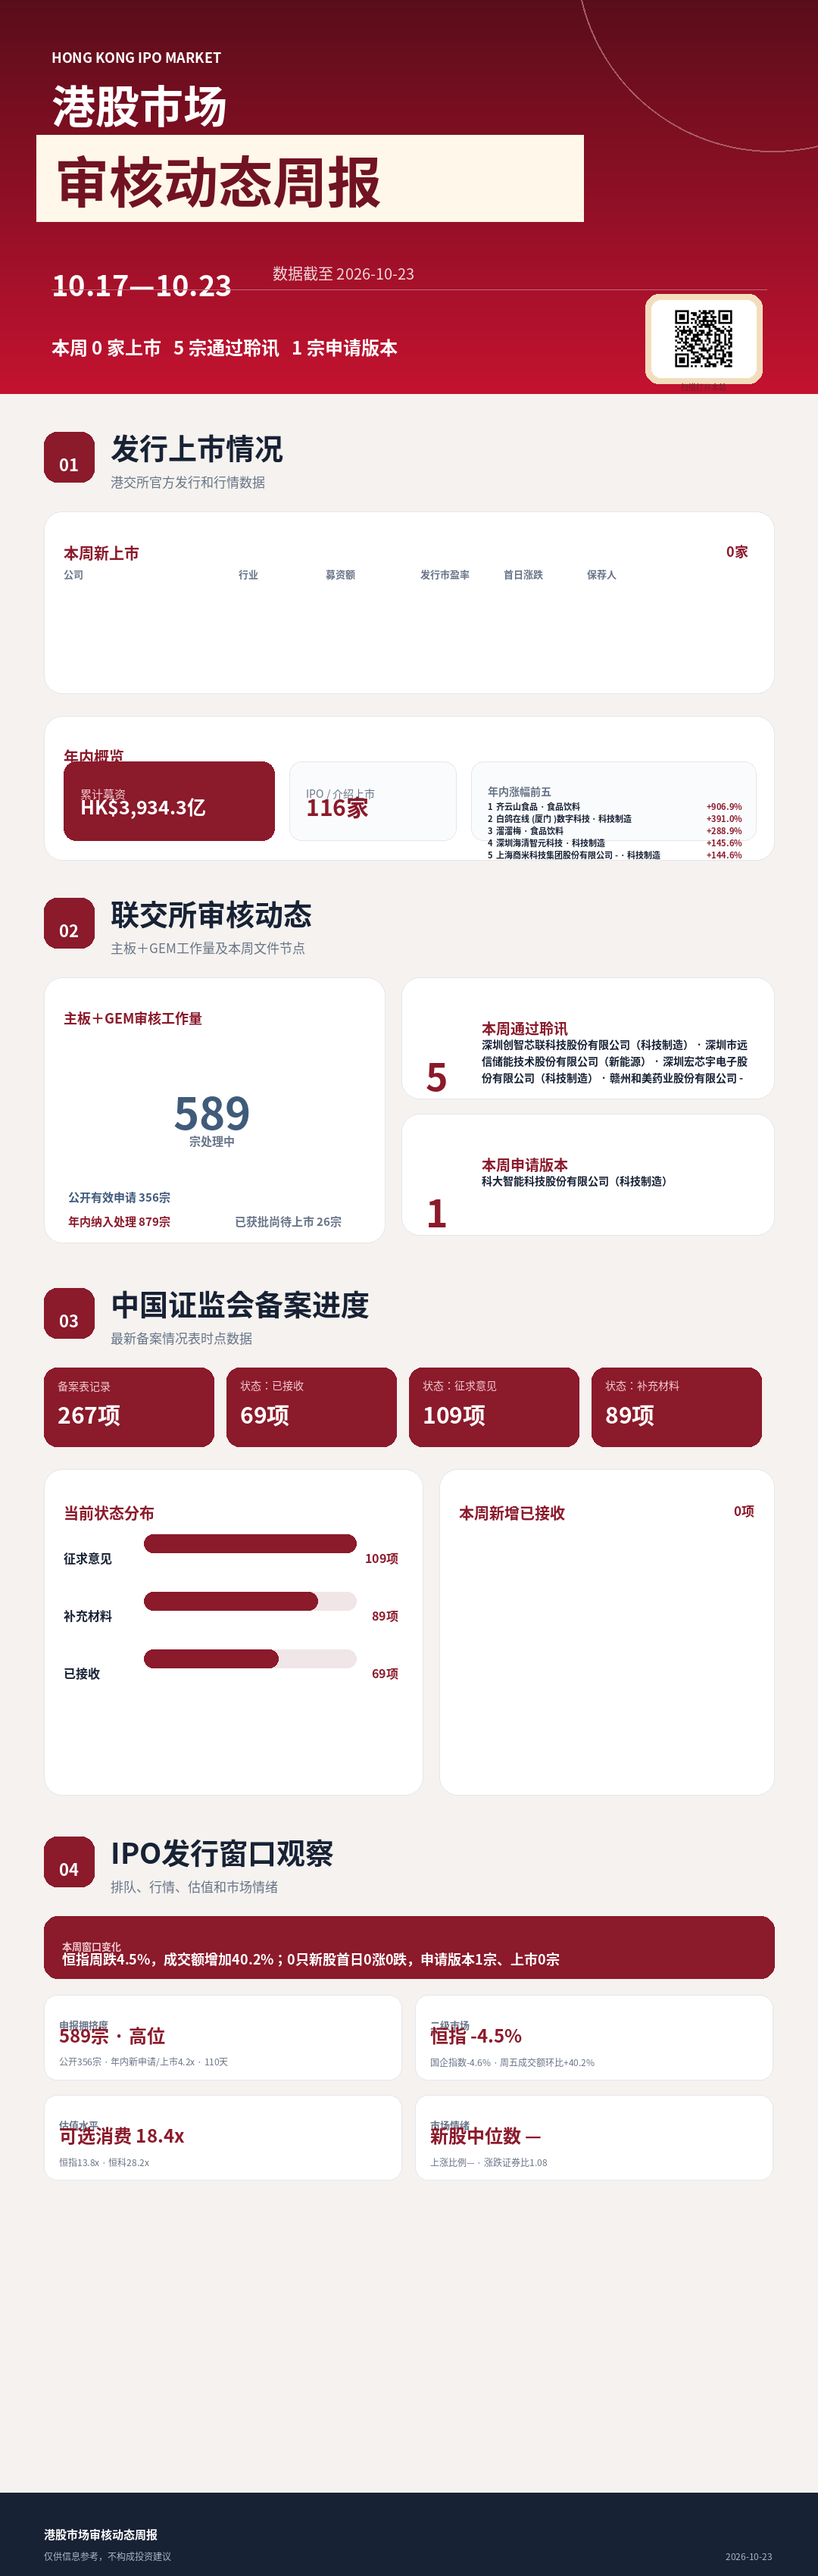
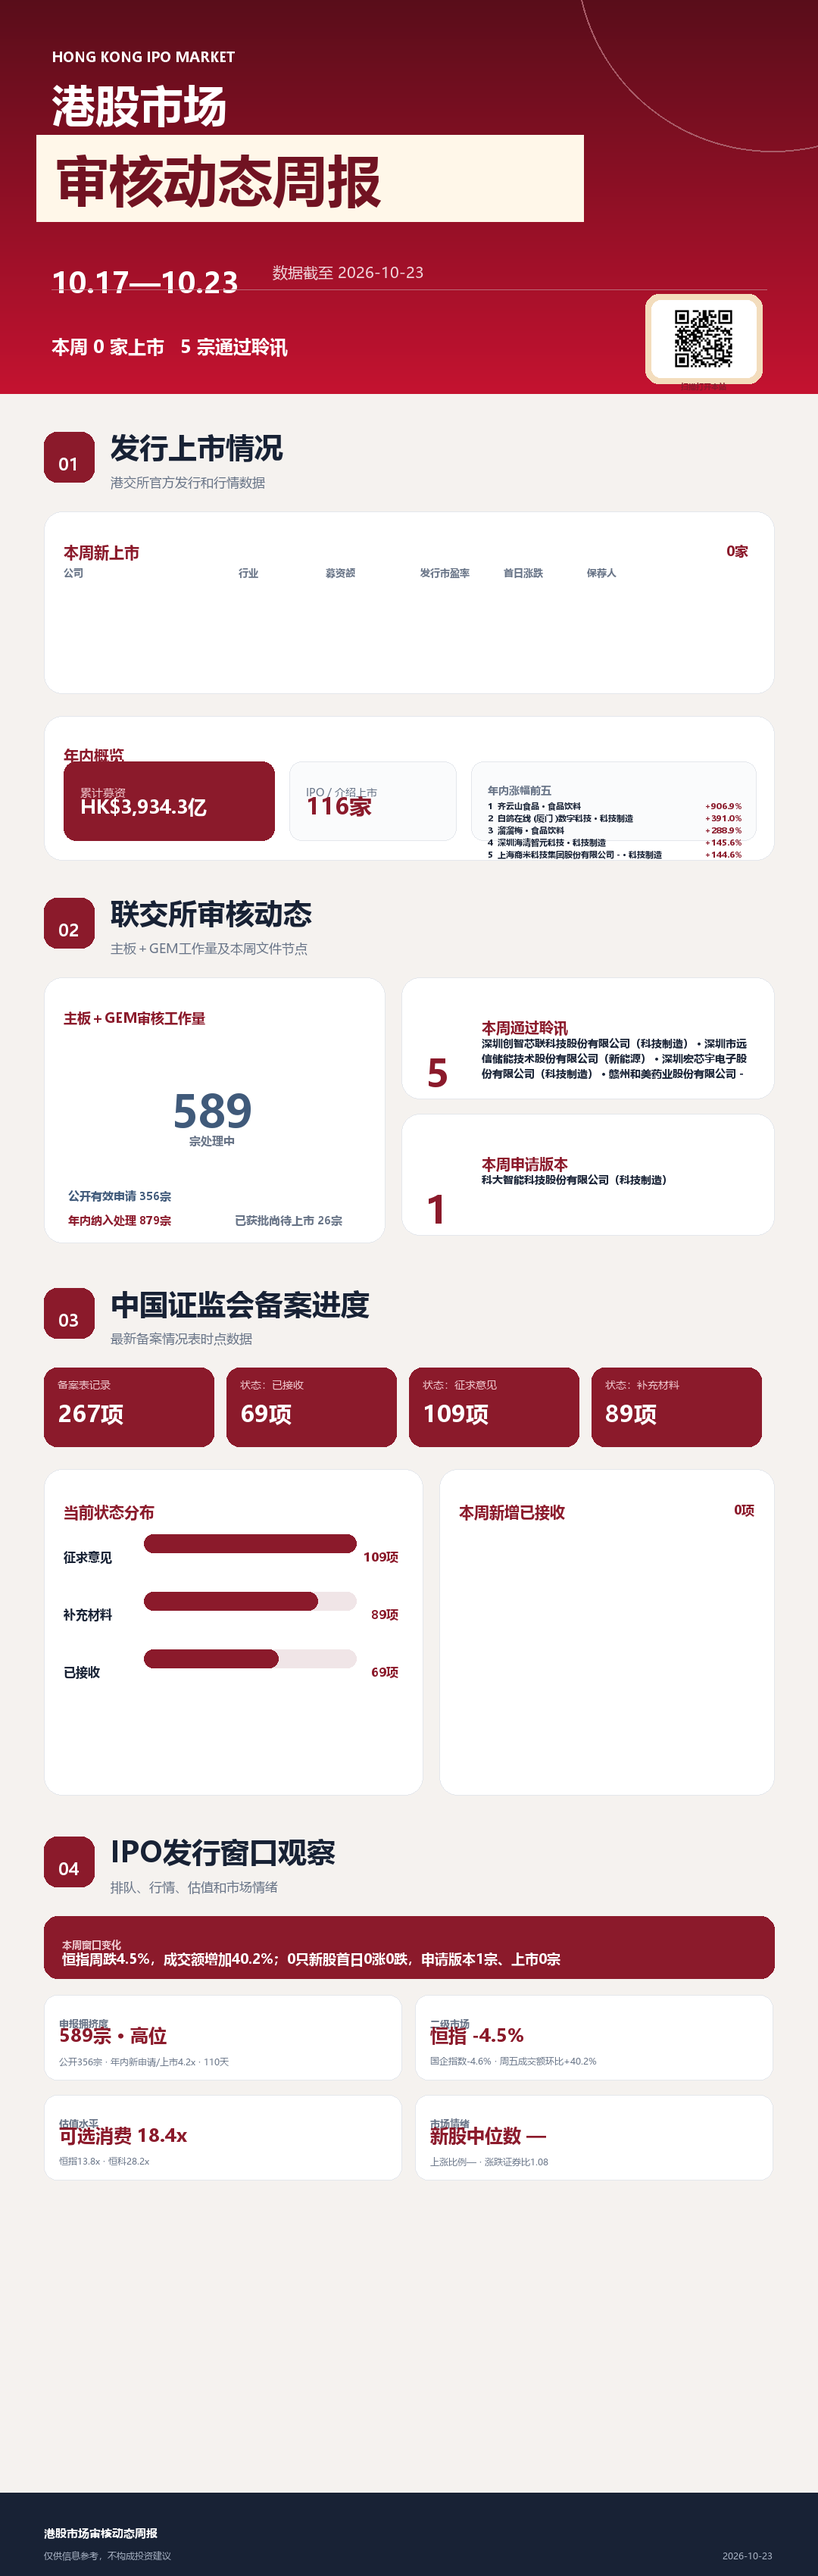
Remove application proof count from report header

diff --git a/assets/app-v2.js b/assets/app-v2.js
@@ -14,7 +14,7 @@ function render(report) {
   const {meta,issuance,hkex,csrc}=report;
   $('report-period').textContent=period(meta.weekStart,meta.weekEnd);
   $('as-of').textContent=`数据截至 ${meta.asOf}`;
-  $('weekly-totals').innerHTML=`<span>本周<strong>${issuance.weekly.count}</strong>上市</span><span><strong>${hkex.weeklyPhips.length}</strong>通过聆讯</span><span><strong>${hkex.weeklyApplicationProofs.length}</strong>申请版本</span>`;
+  $('weekly-totals').innerHTML=`<span>本周<strong>${issuance.weekly.count}</strong>上市</span><span><strong>${hkex.weeklyPhips.length}</strong>通过聆讯</span>`;
   $('weekly-listing-count').textContent=`${issuance.weekly.count}家`;
   $('weekly-listings').innerHTML=issuance.weekly.companies.length?issuance.weekly.companies.map(item=>`<tr>
     <td data-label="公司"><strong>${safe(item.shortName||item.name)}</strong><small class="company-full-name">${safe(item.name)} · ${item.code}</small></td>

diff --git a/scripts/generate_poster.py b/scripts/generate_poster.py
@@ -110,7 +110,7 @@ def generate(report, site_url, output):
     text(draw, (360, 345), f"数据截至 {report['meta']['asOf']}", 20, "#efd6db")
     draw.line((68, 382, 1012, 382), fill="#b96976", width=1)
     weekly = report["issuance"]["weekly"]
-    headline = f"本周 {weekly['count']} 家上市   {len(report['hkex']['weeklyPhips'])} 宗通过聆讯   {len(report['hkex']['weeklyApplicationProofs'])} 宗申请版本"
+    headline = f"本周 {weekly['count']} 家上市   {len(report['hkex']['weeklyPhips'])} 宗通过聆讯"
     text(draw, (68, 440), headline, 24, C["white"], True)
     qr = qrcode.make(site_url).convert("RGB").resize((96, 96))
     rr(draw, (852, 388, 1006, 506), 18, C["cream2"])
